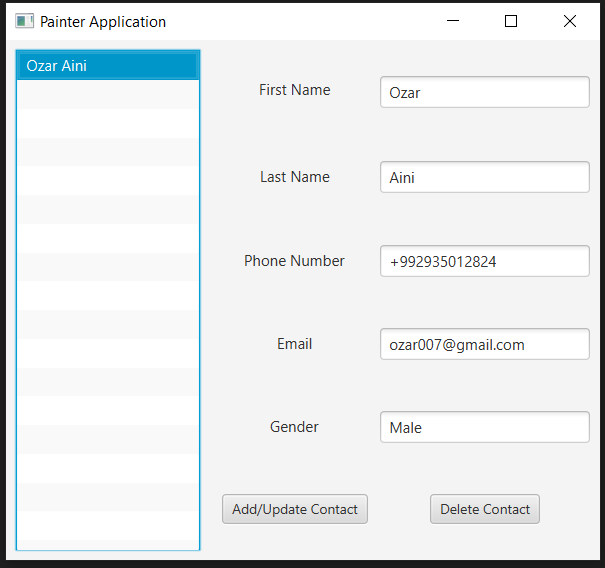
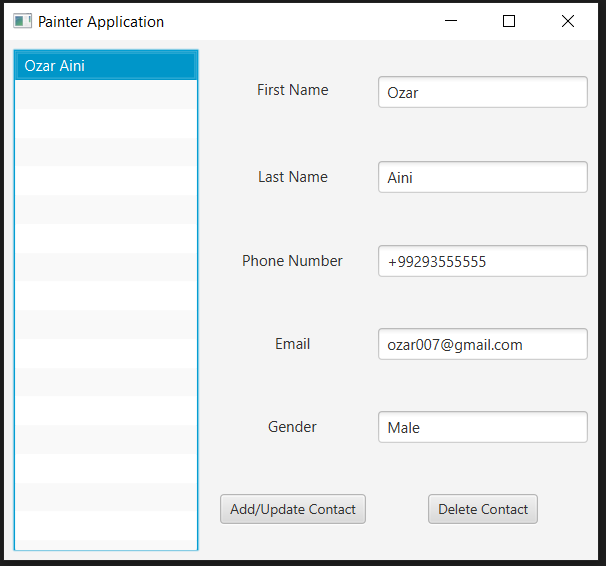
Files

diff --git a/src/PS11Contacts/ContactsAppController.java b/src/PS11Contacts/ContactsAppController.java
@@ -117,7 +117,7 @@ public class ContactsAppController {
     // initialize controller
     public void initialize() {
         // populate the ObservableList<Book>
-        Contact one = new Contact("Ozar", "Aini", "+992935012824", "ozar007@gmail.com","Male");
+        Contact one = new Contact("Ozar", "Aini", "+99293555555", "ozar007@gmail.com","Male");
         contacts.add(one);
 
         contactListView.setItems(contacts); // bind booksListView to books
